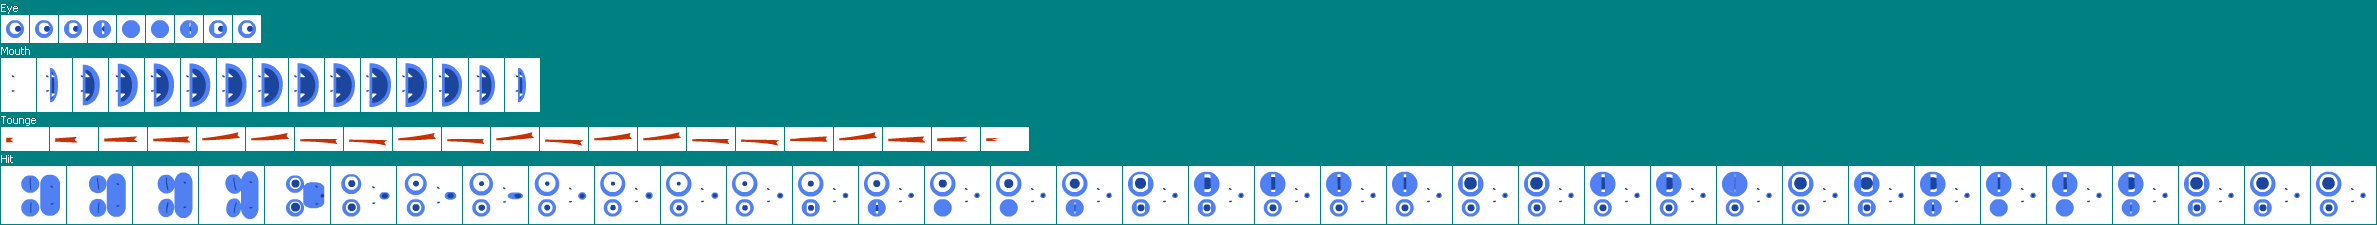
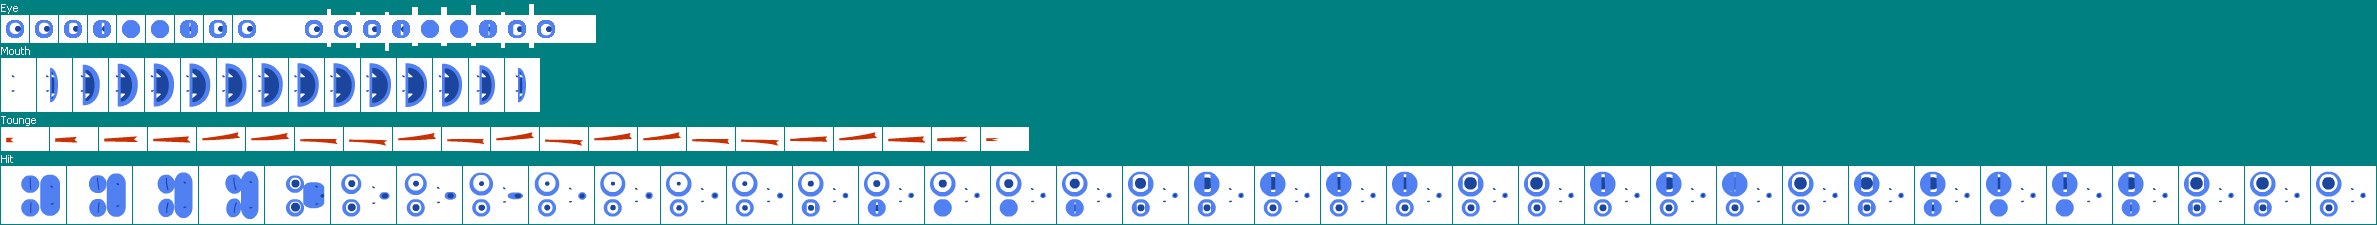
Reposition of head's snake

Changed region(s): [[0.0934, 0.0311, 0.2491, 0.2178]]

diff --git a/sfml/snake.cpp b/sfml/snake.cpp
@@ -4,8 +4,9 @@
 Snake::Snake () {
 	texture_snake.loadFromFile("./sfml/snake.png");
 	tounge.setTexture(texture_snake);
-	eyes.setTexture(texture_snake);
-	s_eyes.setFrames({
+	mouth.setTexture(texture_snake);
+	eyes_right.setTexture(texture_snake);
+	s_eyes_right.setFrames({
 			{1, 15, 28, 28},
 			{30, 15, 28, 28},
 			{59, 15, 28, 28},
@@ -16,8 +17,23 @@ Snake::Snake () {
 			{204, 15, 28, 28},
 			{233, 15, 28, 28}
 	});
-	s_eyes.setFreq(5.0);
-	s_eyes.setSpeed(0.07);
+	s_eyes_right.setFreq(3.0);
+	s_eyes_right.setSpeed(0.07);
+	
+	eyes_left.setTexture(texture_snake);
+	s_eyes_left.setFrames({
+			{301, 15, 28, 28},
+			{330, 15, 28, 28},
+			{359, 15, 28, 28},
+			{388, 15, 28, 28},
+			{417, 15, 28, 28},
+			{446, 15, 28, 28},
+			{475, 15, 28, 28},
+			{504, 15, 28, 28},
+			{533, 15, 28, 28}
+	});
+	s_eyes_left.setFreq(3.0);
+	s_eyes_left.setSpeed(0.07);
 	s_tongue.setFrames({
 			{1, 127, 48, 24},
 			{50, 127, 48, 24},
@@ -42,8 +58,11 @@ Snake::Snake () {
 			{981, 127, 48, 24},
 			{981, 127, 2, 2},
 	});
-	s_tongue.setFreq(5.0);
+	s_tongue.setFreq(6.0);
 	s_tongue.setSpeed(0.08);
+	s_mouth.setFrames({
+		{1, 58, 35, 54}
+	});
 }
 
 void Snake::update_snake(sf::RenderTexture &window, const std::deque<Position> &snake, Direction direction) {
@@ -161,39 +180,48 @@ void Snake::draw_body(sf::RenderTexture& window, const std::deque<Position> &pos
 
 inline void Snake::draw_head(sf::RenderTexture& window, const Position &pos, Direction dir) {
 	sf::RenderTexture	texture;
-	texture.create(TILE * 2, TILE);
+	texture.create(TILE * 2, TILE * 1.10);
 
-	sf::Sprite 			sprite(eyes);
+	sf::Sprite 			sprite(eyes_left);
 	Rect	r;
 	/* Eyes */
-	r = s_eyes.getFrame();
-
 	texture.clear({0,0,0,0});
+	r = s_eyes_left.getFrame();
 	sprite.setTextureRect({r.x, r.y, r.w, r.h});
-	sprite.setPosition({0, - TILEf / 10.f});
+	sprite.setPosition({-3.0, -4.0});
 	texture.draw(sprite);
-	sprite.setPosition({0, TILEf / 2.7f});
+	
+	r = s_eyes_right.getFrame();
+	sprite.setTextureRect({r.x, r.y, r.w, r.h});
+	sprite.setPosition({-3.6, TILEf / 2.0f});
 	texture.draw(sprite);
 	
 	/* Tongue */
 	r = s_tongue.getFrame();
 
 	sprite.setTextureRect({r.x, r.y, r.w, r.h});
-	sprite.setPosition({TILEf * 0.7f, TILEf / 6.0});
+	sprite.setPosition({TILEf * 0.7f, TILEf / 4.0});
+	texture.draw(sprite);
+	
+	/* Mouth */
+	r = s_mouth.getFrame();
+
+	sprite.setTextureRect({r.x, r.y, r.w, r.h});
+	sprite.setPosition({TILEf * 0.4f, -4.0});
 	texture.draw(sprite);
 	texture.display();
 
 	/* Display head */
 	sf::Sprite		head(texture.getTexture());
-	head.setPosition({pos.x * TILEf, pos.y * TILEf});
+	head.setPosition({pos.x * TILEf, pos.y * TILEf - 2.0f});
 	if (dir == Left) {
-		head.setPosition({(pos.x + 1) * TILEf, (pos.y + 1) * TILEf});
+		head.setPosition({(pos.x + 1) * TILEf, (pos.y + 1) * TILEf + 2.0f});
 		head.setRotation(180);
 	} else if (dir == Down) {
-		head.setPosition({(pos.x + 1) * TILEf, pos.y * TILEf});
+		head.setPosition({(pos.x + 1) * TILEf + 2.0f, pos.y * TILEf});
 		head.setRotation(90);
 	} else if (dir == Up) {
-		head.setPosition({pos.x * TILEf, (pos.y + 1) * TILEf});
+		head.setPosition({pos.x * TILEf - 2.0f, (pos.y + 1) * TILEf});
 		head.setRotation(270);
 	}
 

diff --git a/sfml/snake.hpp b/sfml/snake.hpp
@@ -18,9 +18,13 @@ class Snake
 	 private:
 		sf::Texture texture_snake;
 		sf::Sprite tounge;
-		sf::Sprite eyes;
-		Sprite		s_eyes;
+		sf::Sprite eyes_left;
+		sf::Sprite eyes_right;
+		sf::Sprite mouth;
+		Sprite		s_eyes_left;
+		Sprite		s_eyes_right;
 		Sprite		s_tongue;
+		Sprite		s_mouth;
 };
 
 #endif

diff --git a/core/Game.cpp b/core/Game.cpp
@@ -12,7 +12,7 @@ Game::Game(const int width, const int height) {
 	_score = 0;
 	_best_score = 0;
 	_foods = std::vector<Position>();
-	// for (int i = 0; i < width*height; ++i)
+	for (int i = 0; i < width*height; ++i)
 	generateFood();
 }
 
